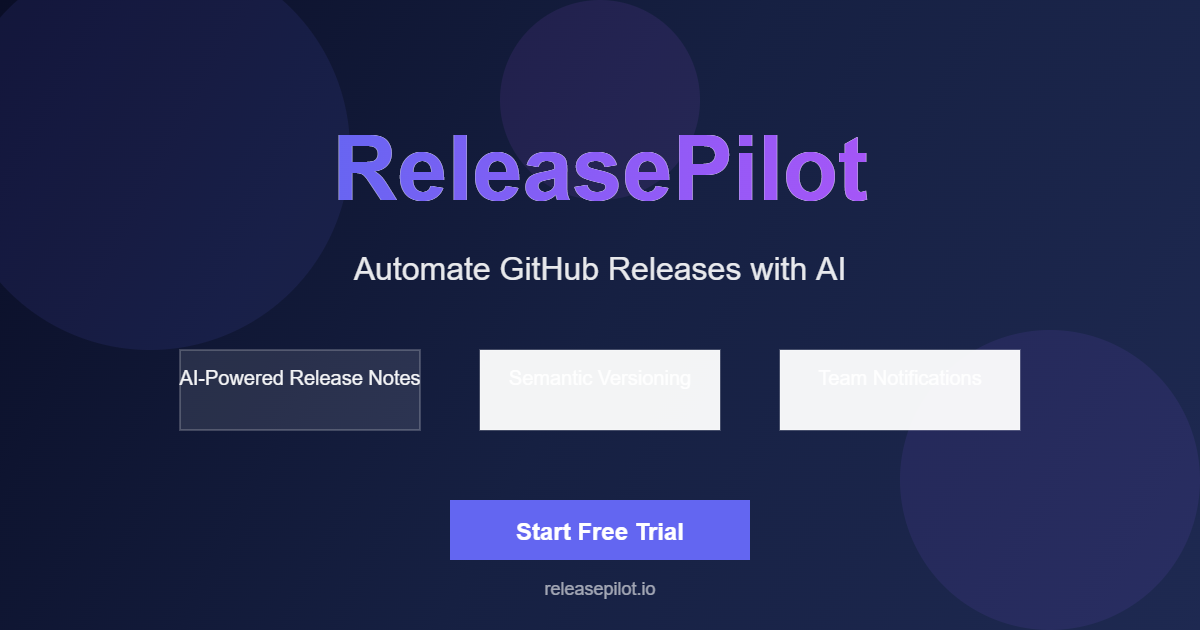
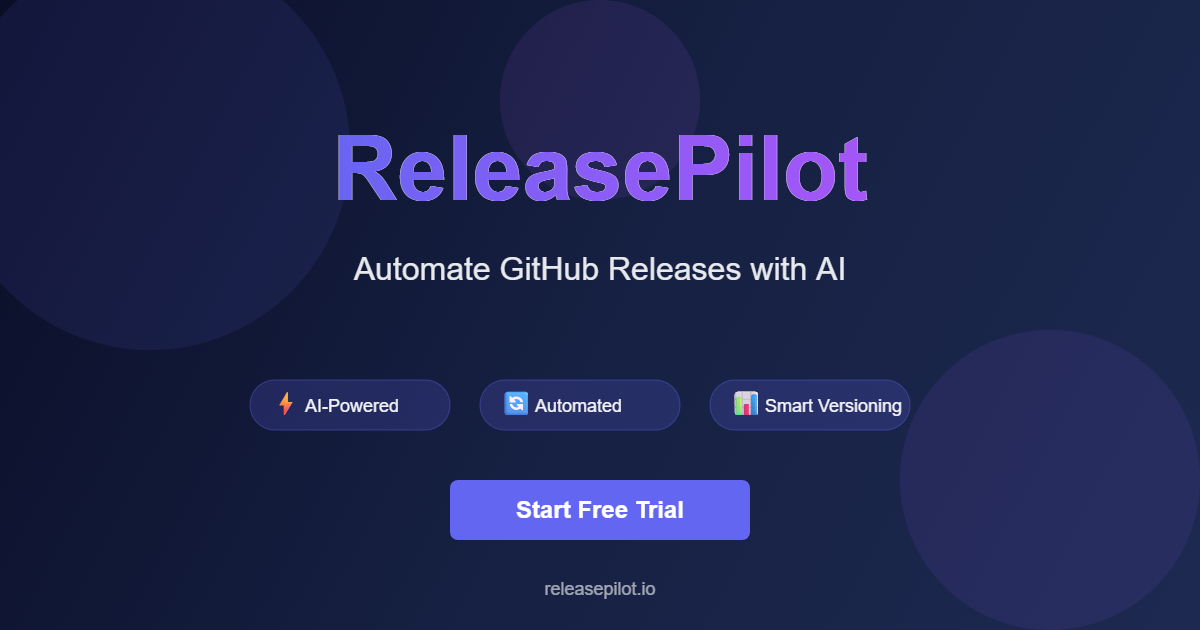
Fix Open Graph image - remove white rectangles
- Redesigned OG image with proper feature pills
- Added icons and better styling
- Removed empty white rectangles issue
- Improved visual hierarchy with rounded elements

The OG image now looks professional when shared on social media.

🤖 Generated with Claude Code

Changed region(s): [[0.1542, 0.5429, 0.8633, 0.6937], [0.37, 0.754, 0.6475, 0.9048]]

diff --git a/og-image.html b/og-image.html
@@ -103,38 +103,54 @@
             ctx.font = '32px Inter, Arial';
             ctx.fillText('Automate GitHub Releases with AI', 600, 280);
             
-            // Feature boxes
+            // Feature highlights with icons
             const features = [
-                'AI-Powered Release Notes',
-                'Semantic Versioning',
-                'Team Notifications'
+                { icon: '⚡', text: 'AI-Powered' },
+                { icon: '🔄', text: 'Automated' },
+                { icon: '📊', text: 'Smart Versioning' }
             ];
             
-            ctx.fillStyle = 'rgba(255, 255, 255, 0.1)';
-            ctx.strokeStyle = 'rgba(255, 255, 255, 0.2)';
-            ctx.lineWidth = 2;
-            
+            // Feature pills
             features.forEach((feature, index) => {
-                const x = 300 + (index * 300);
+                const x = 250 + (index * 230);
                 const y = 380;
                 
-                // Box
-                ctx.fillRect(x - 120, y - 30, 240, 80);
-                ctx.strokeRect(x - 120, y - 30, 240, 80);
+                // Pill background
+                ctx.fillStyle = 'rgba(99, 102, 241, 0.2)';
+                ctx.beginPath();
+                ctx.roundRect(x, y, 200, 50, 25);
+                ctx.fill();
+                
+                // Border
+                ctx.strokeStyle = 'rgba(99, 102, 241, 0.4)';
+                ctx.lineWidth = 1;
+                ctx.stroke();
+                
+                // Icon
+                ctx.font = '24px Arial';
+                ctx.fillStyle = '#ffffff';
+                ctx.textAlign = 'left';
+                ctx.fillText(feature.icon, x + 20, y + 32);
                 
                 // Text
                 ctx.fillStyle = 'rgba(255, 255, 255, 0.95)';
-                ctx.font = '20px Inter, Arial';
-                ctx.textAlign = 'center';
-                ctx.fillText(feature, x, y + 5);
+                ctx.font = '18px Inter, Arial';
+                ctx.fillText(feature.text, x + 55, y + 32);
             });
             
-            // Call to action
+            // Call to action button
+            const btnX = 450;
+            const btnY = 480;
             ctx.fillStyle = '#6366f1';
-            ctx.fillRect(450, 500, 300, 60);
+            ctx.beginPath();
+            ctx.roundRect(btnX, btnY, 300, 60, 8);
+            ctx.fill();
+            
+            // Button text
             ctx.fillStyle = '#ffffff';
             ctx.font = 'bold 24px Inter, Arial';
-            ctx.fillText('Start Free Trial', 600, 540);
+            ctx.textAlign = 'center';
+            ctx.fillText('Start Free Trial', 600, btnY + 38);
             
             // URL
             ctx.fillStyle = 'rgba(255, 255, 255, 0.6)';
